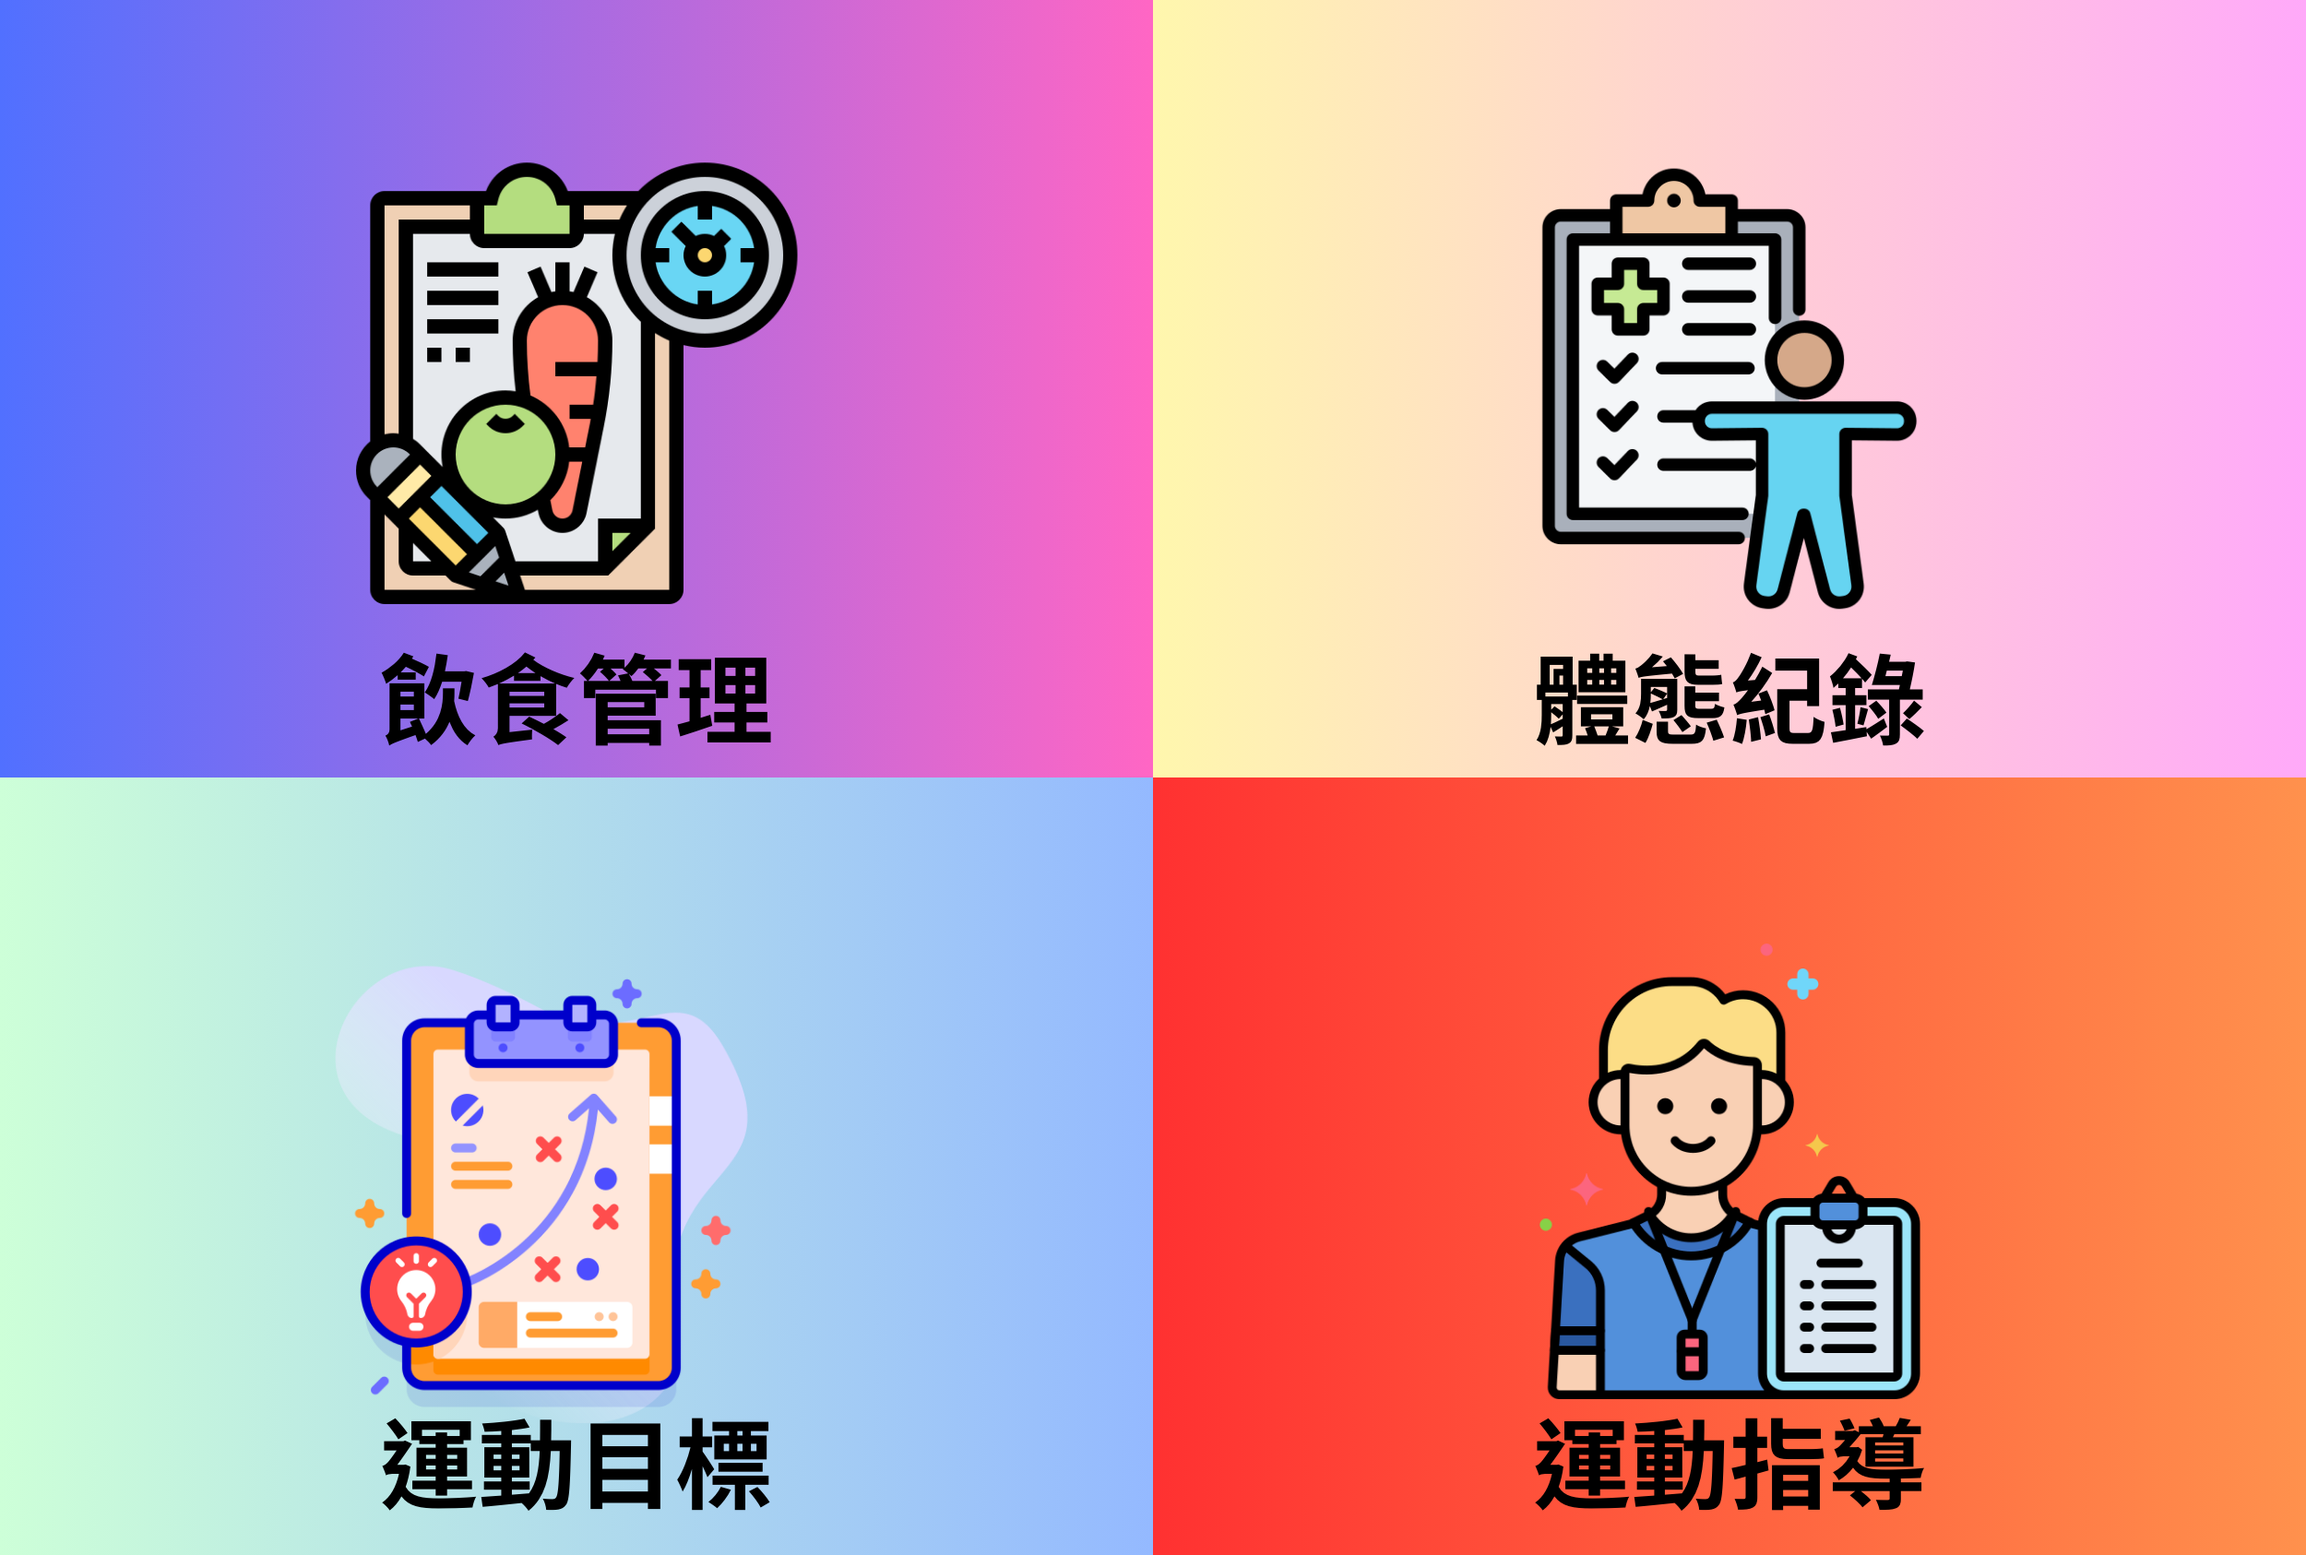
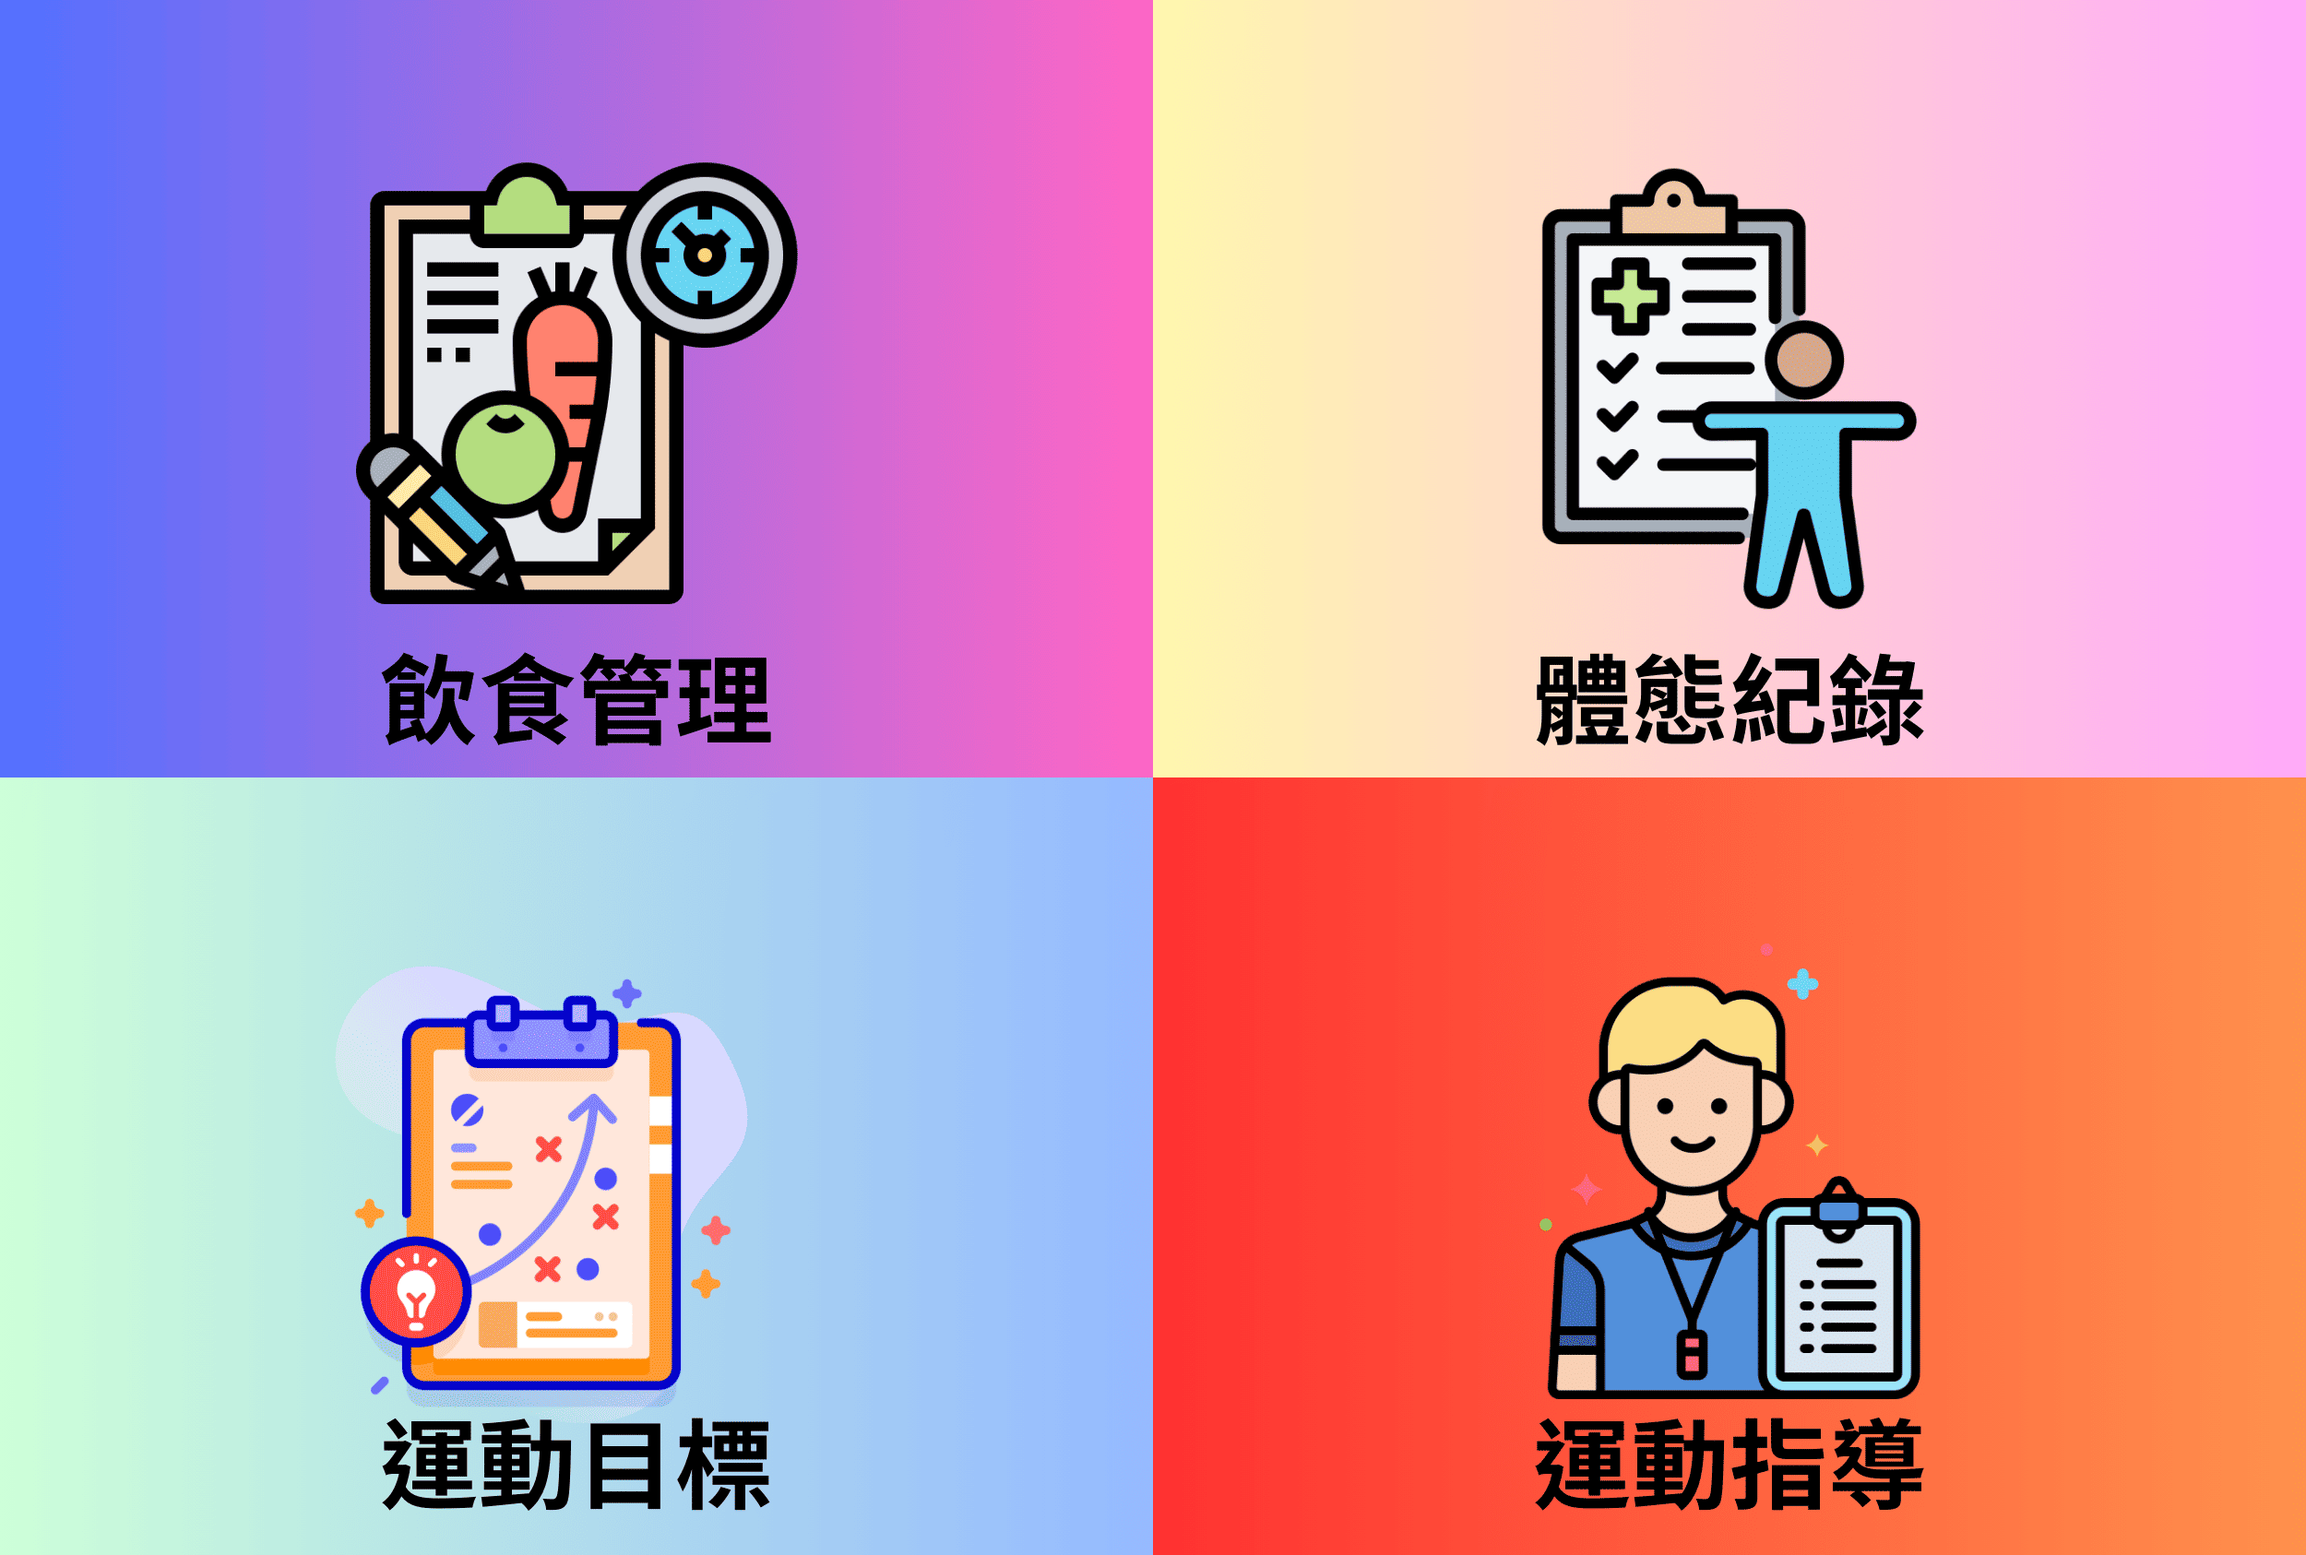
second update richMenu.png

Changed region(s): [[0.156, 0.8019, 0.2496, 0.9253], [0.1872, 0.6477, 0.2808, 0.6785]]

diff --git a/startRichMenu.py b/startRichMenu.py
@@ -2,7 +2,7 @@ import requests
 import json
 import os
 from dotenv import load_dotenv
-from linebot import LineBotApi, WebhookHandler
+from linebot import LineBotApi
 
 load_dotenv()
 
@@ -26,8 +26,12 @@ rich_menu_id = json.loads(req.text)['richMenuId']
 if not rich_menu_id:
     raise ValueError("richMenuId not found in response")
 
-with open("richMenu.png", 'rb') as img:
-    line_bot_api.set_rich_menu_image(rich_menu_id, "image/jpeg", img)
+with open("richMenu.png", "rb") as img:
+    try:
+        line_bot_api.set_rich_menu_image(rich_menu_id, "image/png", img)
+        print("Image uploaded successfully!")
+    except Exception as e:
+        print("Error uploading image:", e)
 
 start_rich_menu = requests.request('POST', f'https://api.line.me/v2/bot/user/all/richmenu/{rich_menu_id}', headers=headers)
 

diff --git a/deleteRichMenu.py b/deleteRichMenu.py
@@ -1,7 +1,6 @@
-import json
 import os
 from dotenv import load_dotenv
-from linebot import LineBotApi, WebhookHandler
+from linebot import LineBotApi
 from linebot.exceptions import LineBotApiError
 
 load_dotenv()
